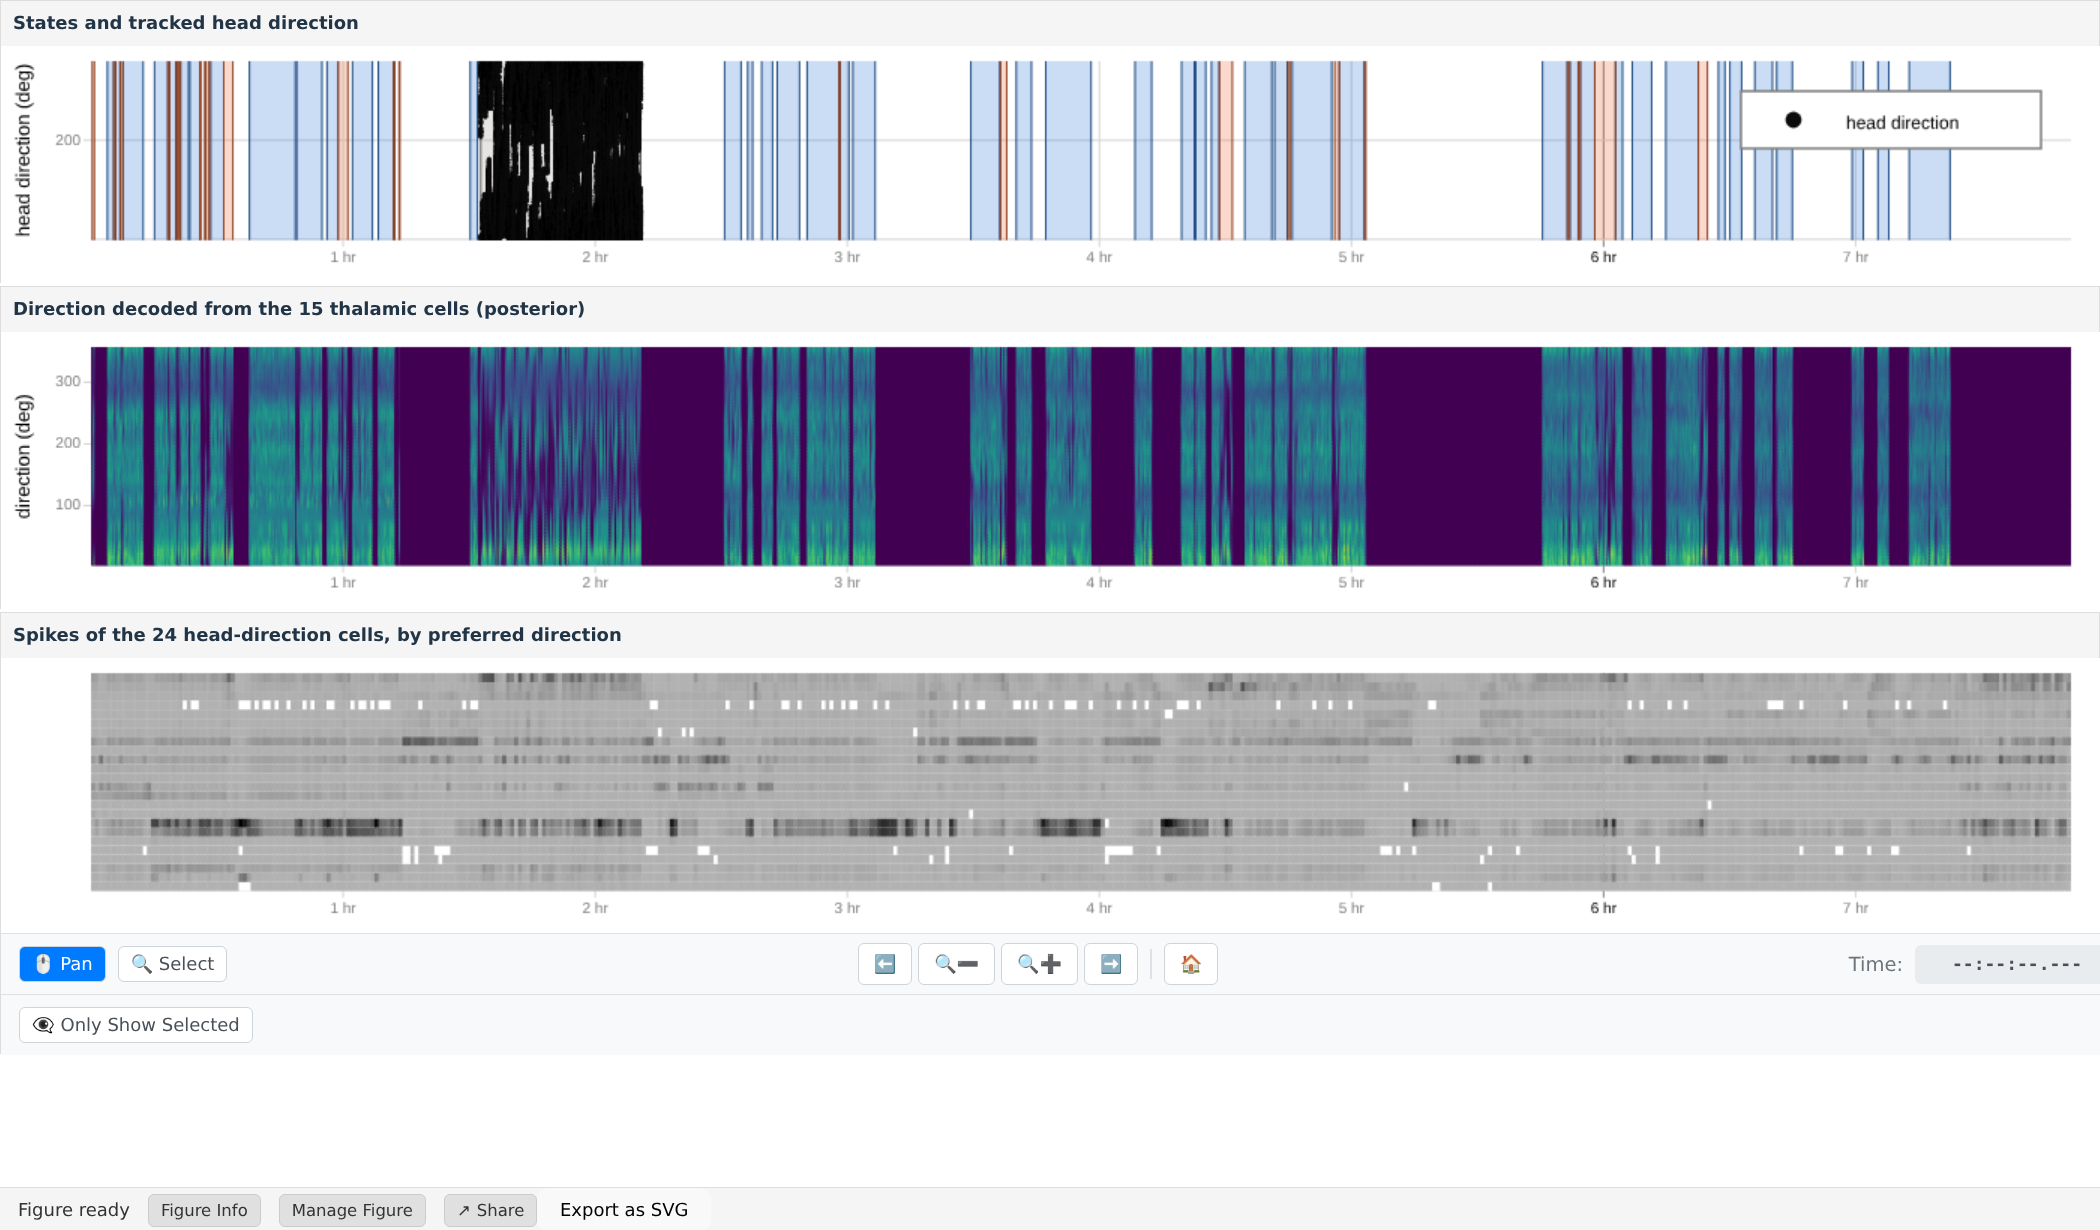
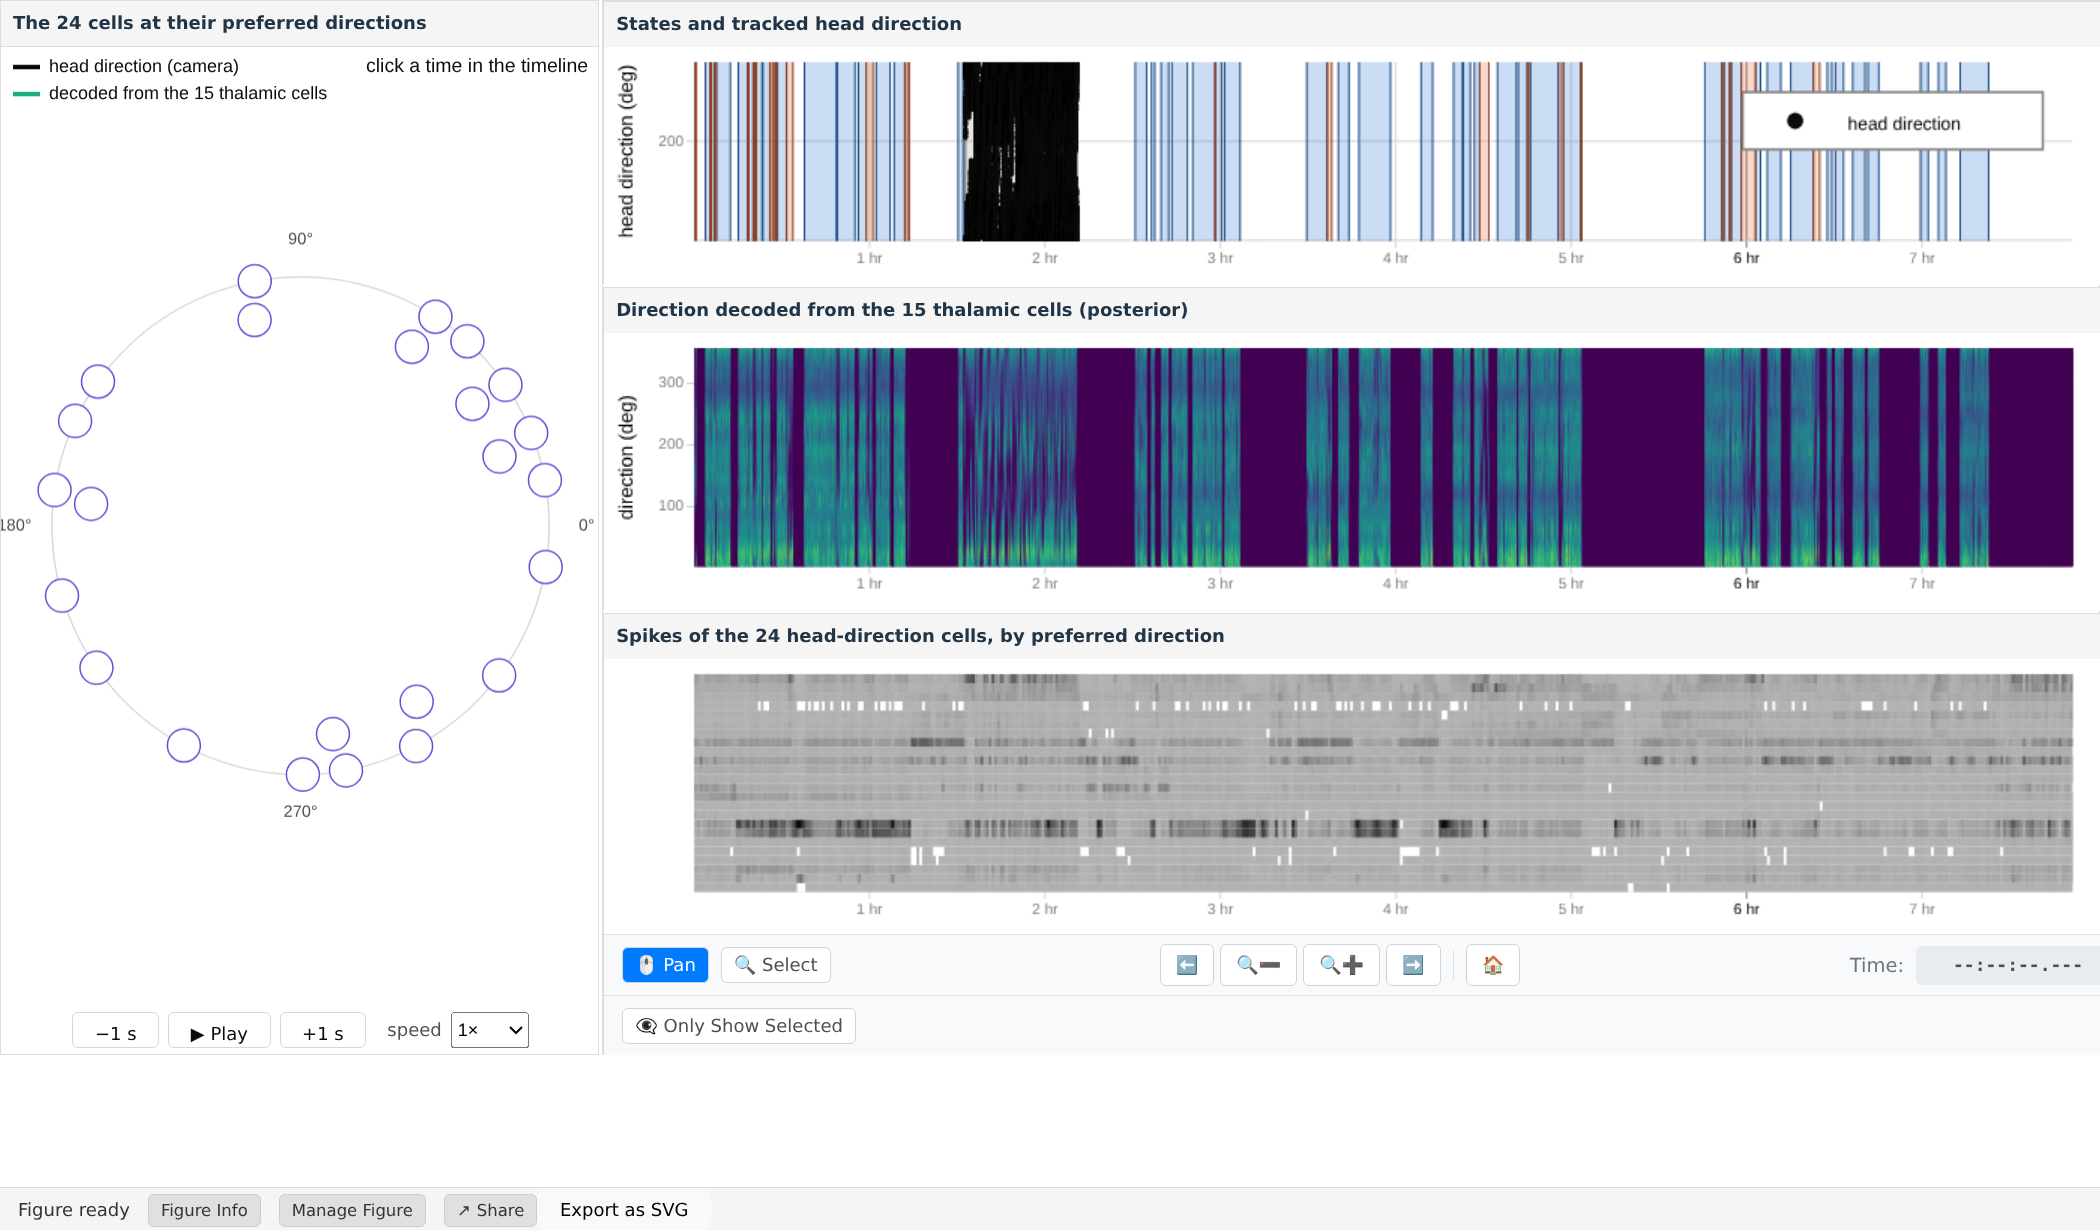
Peyrache 2015: add the RingRaster view to the session figure (figpack_experimental 0.1.22)

diff --git a/papers/peyrache-2015/fig_session.py b/papers/peyrache-2015/fig_session.py
@@ -14,6 +14,7 @@ from pathlib import Path
 
 import numpy as np
 import figpack.views as fv
+from figpack_experimental.views import RingRaster
 from figpack_spike_sorting.views import RasterPlot, RasterPlotItem
 
 ROOT = Path(__file__).resolve().parents[2]
@@ -55,10 +56,30 @@ def main():
                             spike_times_sec=spikes[i]) for i in order]
     raster = RasterPlot(start_time_sec=0.0, end_time_sec=t_end, plots=items)
 
-    view = fv.Box(direction="vertical", items=[
+    # the 24 cells on a ring at their preferred directions, at the current time of the timeline
+    ring = RingRaster(unit_ids=[f"{d['region'][i]} {int(d['unit'][i])}" for i in order],
+                      angles_deg=np.degrees(d["pref"][order]), spike_times_sec=[spikes[i] for i in order],
+                      unit_colors=["#6250d6"] * len(order), start_time_sec=0.0, end_time_sec=t_end,
+                      flash_sec=0.1, playback_speed=1.0)
+    w = d["state_wake"]
+    ok = np.isfinite(d["hd"]) & (d["hd_t"] >= w[0, 0]) & (d["hd_t"] < w[-1, 1])
+    ring.add_needle(name="head direction (camera)", t=d["hd_t"][ok], angle_deg=np.degrees(d["hd"][ok]),
+                    color="#0b0b0b")
+    dt = np.concatenate([d[f"dec_t_{k}"] for k in ("wake", "SWS", "REM")])
+    da = np.concatenate([d[f"dec_{k}"] for k in ("wake", "SWS", "REM")])
+    o = np.argsort(dt)
+    ring.add_needle(name="decoded from the 15 thalamic cells", t=dt[o], angle_deg=np.degrees(da[o]),
+                    color="#1baf7a", max_gap_sec=0.02)
+
+    tracks = fv.Box(direction="vertical", items=[
         fv.LayoutItem(states, stretch=1.2, title="States and tracked head direction"),
         fv.LayoutItem(decoded, stretch=1.4, title="Direction decoded from the 15 thalamic cells (posterior)"),
         fv.LayoutItem(raster, stretch=2.0, title="Spikes of the 24 head-direction cells, by preferred direction"),
+    ])
+    view = fv.Box(direction="horizontal", items=[
+        fv.LayoutItem(ring, stretch=1, min_size=300, max_size=480,
+                      title="The 24 cells at their preferred directions"),
+        fv.LayoutItem(tracks, stretch=2.5),
     ])
     description = f"""\
 One session of DANDI:000056 (Mouse28-140313, {t_end / 3600:.1f} h), from the data of Peyrache et

diff --git a/papers/peyrache-2015/README.md b/papers/peyrache-2015/README.md
@@ -42,19 +42,19 @@ These windows are three examples. The interactive figure below shows the whole s
 
 ## Figure 1: the whole session, interactive
 
-[![States, tracked head direction, decoded direction and spikes over a 7.9 hour session](images/session.png)](https://figures.figpack.org/figures/default/87662d4b335c6fb6c2febc4a/index.html)
+[![The 24 cells on a ring at their preferred directions, beside the states, tracked head direction, decoded direction and spikes of a 7.9 hour session](images/session.png)](https://figures.figpack.org/figures/default/5df05e1093318696ccdc8f42/index.html)
 
-[Open the interactive figure in a new tab](https://figures.figpack.org/figures/default/87662d4b335c6fb6c2febc4a/index.html)
+[Open the interactive figure in a new tab](https://figures.figpack.org/figures/default/5df05e1093318696ccdc8f42/index.html)
 
-**What it shows.** The whole 7.9 hour session. Three tracks share one time axis:
+**What it shows.** The whole 7.9 hour session. On the left, the 24 head-direction cells sit on a ring at their preferred directions, as in the tuning curves above, and each dot flashes when its cell spikes. Two needles point to the head direction tracked by the camera (black, waking only) and to the direction decoded from the 15 ADn cells (aqua). The ring shows a single moment, the current time of the three tracks on the right, which share one time axis:
 
 1. The scored states (waking gray, slow-wave sleep blue, REM sleep orange) and the head direction tracked by the camera. The tracking is shown in waking only; the file holds an LED angle for the whole session, but in the home cage it changes by about 30° per second while the mouse sleeps, presumably from tracking noise, and the attempt also uses waking only.
 2. The decoded direction as a *posterior*: for each 50 ms and each 6° of direction, how probable the decoder finds that direction given the spikes of the 15 ADn cells (bright is probable). It is computed in the scored states only, with the attempt's smoothing (300 ms in waking and REM, 50 ms in slow-wave sleep).
 3. The spikes of the 24 head-direction cells, one row per cell, in order of preferred direction, labelled with region, unit number and preferred direction.
 
-**How to use it.** Zooming or panning in any track moves all three. The magnifier buttons zoom in and out; in "Select" mode, dragging across a stretch of time zooms to it, and the house button returns to the whole session. The figure holds 89 MB, but each track is stored at several resolutions and loads only what the current view needs.
+**How to use it.** Clicking a time in any track sets the current time and shows the ring at that moment. **Play**, below the ring, runs time forward at the chosen speed (1× is real time; 0.1× slows it down tenfold), and the tracks follow; if the tracks show the whole session, Play first zooms them to about 30 s. Zooming or panning in any track moves all three: the magnifier buttons zoom in and out, in "Select" mode dragging across a stretch of time zooms to it, and the house button returns to the whole session. The figure holds about 105 MB, but each track is stored at several resolutions, and the ring stores its spikes in 10 s blocks, so the viewer loads only what the current view needs.
 
-**What to look for.** At the scale of the whole session there is little to see; the result appears at the scale of seconds. Zoom into the waking period (from 1 h 33 min to 2 h 11 min) to see the bright band of the posterior lie on the tracked head direction and the spikes move from row to row as the head turns. Then zoom into any REM episode, for example the one at 3 h 37 min (the middle panel above), or slow-wave sleep, for example at 9 min. The posterior remains a narrow band that moves, although there is no head movement to follow.
+**What to look for.** At the scale of the whole session there is little to see; the result appears at the scale of seconds. Click in the waking period (from 1 h 33 min to 2 h 11 min) and press Play: the flashing cells form a group on one side of the ring that turns with the black needle, and the aqua needle follows it. Then click in a REM episode, for example the one at 3 h 37 min (the middle panel above), and press Play. The black needle is gone, because the head is still and not tracked, but the group of flashing cells and the aqua needle keep turning around the ring, much as in waking. In slow-wave sleep, for example at 9 min, the group jumps around the ring faster, and 0.1× shows its course more clearly. In the tracks, the same activity appears as a bright band in the posterior and as diagonal stripes in the spikes.
 
 ## The cells keep their relationships during sleep
 
@@ -96,7 +96,7 @@ A failure to reproduce in Encore describes what one attempt could recover from t
 
 ## Reproducing the figures and plots
 
-`hd.py` is the loading and analysis module of the Encore entry, copied unchanged from [`entries/peyrache-2015/hd.py`](https://github.com/catalystneuro/encore/blob/a81ed60ba3e1ddcd77aeb9e69f01c0c29fc91bb3/entries/peyrache-2015/hd.py). `compute.py` streams the session's units, head direction and sleep states (about 30 s), classifies the head-direction cells, computes their tuning curves, decodes the direction in every state with the attempt's decoder, and computes the posterior over the whole session for Figure 1. `fig_session.py` builds Figure 1 from figpack's existing views (TimeseriesGraph, Spectrogram and the spike-sorting RasterPlot), and `plot_static.py` draws the static plots into `images/`. From the repository root:
+`hd.py` is the loading and analysis module of the Encore entry, copied unchanged from [`entries/peyrache-2015/hd.py`](https://github.com/catalystneuro/encore/blob/a81ed60ba3e1ddcd77aeb9e69f01c0c29fc91bb3/entries/peyrache-2015/hd.py). `compute.py` streams the session's units, head direction and sleep states (about 30 s), classifies the head-direction cells, computes their tuning curves, decodes the direction in every state with the attempt's decoder, and computes the posterior over the whole session for Figure 1. `fig_session.py` builds Figure 1 from the RingRaster view of `figpack_experimental`, written for this report, and figpack's existing views (TimeseriesGraph, Spectrogram and the spike-sorting RasterPlot), and `plot_static.py` draws the static plots into `images/`. From the repository root:
 
 ```bash
 .venv/bin/python papers/peyrache-2015/compute.py

diff --git a/README.md b/README.md
@@ -47,4 +47,4 @@ uv venv .venv
 uv pip install --python .venv/bin/python -r requirements.txt
 ```
 
-The figures use the `LinkedTrajectories` and `LinkedCurves` views of `figpack_experimental` (0.1.21 or later), which is published as a wheel on figpack's site rather than on PyPI; `requirements.txt` points pip there. Uploading needs `FIGPACK_API_KEY` in the environment. Uploaded figures expire after 24 hours unless pinned, so after uploading, record the URLs in `figures.json` and pin them with `.venv/bin/python tools/pin_figures.py papers/<paper key>/figures.json`.
+The figures use the `LinkedTrajectories`, `LinkedCurves` and `RingRaster` views of `figpack_experimental` (0.1.22 or later), which is published as a wheel on figpack's site rather than on PyPI; `requirements.txt` points pip there. Uploading needs `FIGPACK_API_KEY` in the environment. Uploaded figures expire after 24 hours unless pinned, so after uploading, record the URLs in `figures.json` and pin them with `.venv/bin/python tools/pin_figures.py papers/<paper key>/figures.json`.
